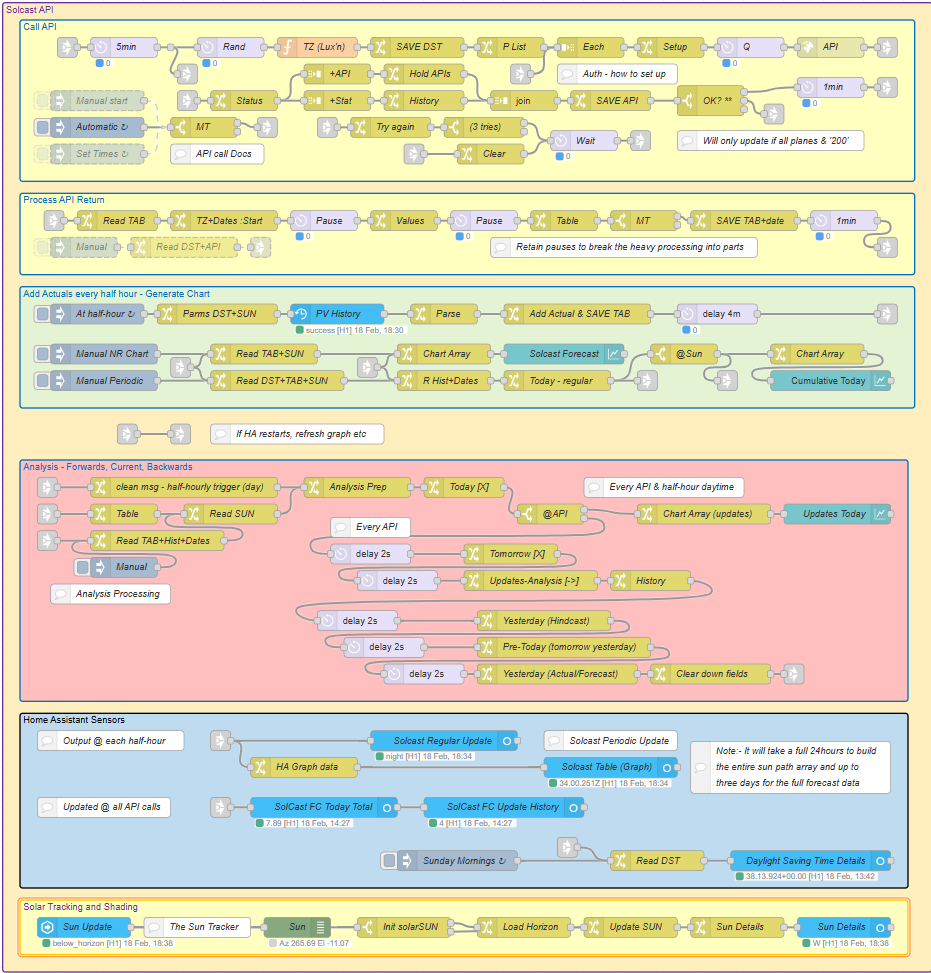
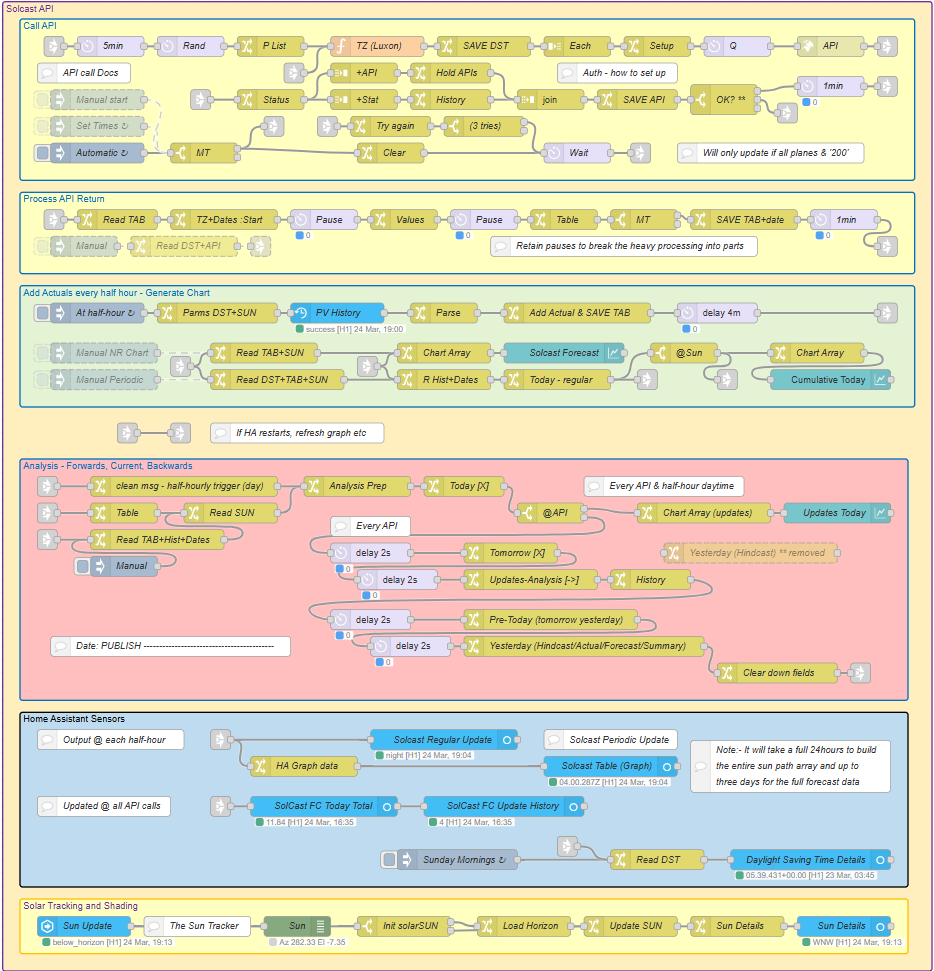
Improve analysis, bugs and documentation
Improve yesterday analysis
Address bugs
Update documentation

diff --git a/README.md b/README.md
@@ -28,13 +28,13 @@ A **Node-RED** flow to read, analyze and save into context **Solcast Solar API f
 
 - Make sure you have **Node-RED working**.
 - Obtain a **Hobbyist account with Solcast**, configure your one or two planes, and obtain the **plane resource codes and account API key**.
-- **Download the release .json file and import** this directly into Node-RED.
+- **Download the latest release .json file and import** this directly into Node-RED.
 - Change the settings:
   - **Configure the plane [P List node] and authorisation [API node] codes into the flow**.
   - Make sure you have your **timezone set** in either Node-RED as a Home Assistant add-on, or in the flow environment variable 'TZ'.  
   - Optionally, if you have a file-based context store, modify the context settings to use file rather than memory. See [can I save context over a restart](#questions-you-might-want-to-ask).
   - Optionally add your horizon settings for the shading calculator [Load Horizon] and set your plane(s) for the sun-path graph [Update SUN].  
-- If you are using Home Assistant, **edit the sensors and sensor configuration nodes to enable them and set them with your home assistant server**. Also **configure the solar-power sensor** for solar PV history and enable both current state and events state nodes.
+- If you are using *Home Assistant*, **edit the sensors and sensor configuration nodes to enable them and set them with your home assistant server**. Also **configure the solar-power sensor** for solar PV history and enable both current state and events state nodes. You will also need to have both the utc date-time and iso date-time entity sensors available: [HA time-date integration](https://www.home-assistant.io/integrations/time_date/)
 - If you are going to use the Node-RED graphs, the graph nodes will need to be enabled and the dashboard settings checked.
 - Fire at least **one API forecast call manually to create and populate all the context variables**, and then configure the triggers for either your *fixed* or *automatic* times.
 
@@ -295,9 +295,16 @@ The sun path tracker provides details of the current sun path and shading, which
 
 </details>
 
+<details>
+<summary> Home Assistant Time sensors (UTC & ISO) for the sun-path flow </summary>
+
+The main flow computes both UTC and local time using the Luxon library. The solar tracking flow operates independently (with a view to possible re-use). Getting local time using JSONata can be done, but an assured approach is to access the time sensors in Home Assistant. Optional time sensors can be added for dates and times, and this flow uses the sensor.date_time_utc and sensor.date_time_iso entities. For correct operation, these need to be added. This can be done easily using the DateTime integration.
+
+</details>
+
 ## Using this Node-RED flow
 
-The flow should run without issue. Solcast does have occasional maintenance outage periods (during Europe night). The flow here has no error checking or recovery - if the API calls fail then the call will be repeated only at the next scheduled trigger point. Rate-limiting errors (429) will be re-attempted [please note that this code feature has not yet been tested in a live situation as at February 2025].
+The flow should run without issue. Solcast does have occasional maintenance outage periods (during Europe night). The flow here has no error checking or recovery - if the API calls fail then the call will be repeated only at the next scheduled trigger point. Rate-limiting errors (response 429) will be re-attempted [please note that this code feature has been tested and debugged, but not yet fully tested in a live situation as at March 2025].
 
 ### Questions you might want to ask
 
@@ -324,7 +331,7 @@ For the fixed time schedule, set your times in the JSON object in the inject nod
 }
 ```
 
-The automatic schedule [experimental at this state] will attempt to spread the API forecast calls out over the solar day. Again, history can be `""` to turn off.`First_by`will issue one forecast to complete prior to the time given, so if you require a forecast for today before utility energy off-peak period at 02:00, then set this as shown. First-by 00:00 will not work (use 00:30), and if the first-by call falls on or after a time during the solar day, it will not be used. The`plane_count`and`call_limit`figures are used to account for the number of API calls required for the optional history and possible first-by, and then the remaining calls are calculated across the solar day, starting at sunrise. An integer gap of at least one hour is applied, and any calls falling at or after sunset are ignored. If history and forecast are requested at the same time, then two or four API calls will be made for both (forecast and estimates) and should execute correctly.
+The automatic schedule [experimental at this stage] will attempt to spread the API forecast calls out over the solar day. Again, history can be `""` to turn off.`First_by`will issue one forecast to complete prior to the time given, so if you require a forecast for today before utility energy off-peak period at 02:00, then set this as shown. First-by 00:00 will not work (use 00:30), and if the first-by call falls on or after a time during the solar day, it will not be used. The`plane_count`and`call_limit`figures are used to account for the number of API calls required for the optional history and possible first-by, and then the remaining calls are calculated across the solar day, starting at sunrise. An integer gap of at least one hour is applied, and any calls falling at or after sunset are ignored. If history and forecast are requested at the same time, then two or four API calls will be made for both (forecast and estimates) and should execute correctly.
 
 ```javascript
 {"history": "03:00",
@@ -335,7 +342,7 @@ The automatic schedule [experimental at this state] will attempt to spread the A
 }
 ```
 
-It is necessary for at least one API call to be triggered manually first to generate the DST context variable (used by both fixed and automatic) and for the Home Assistant sensor.sun to update and provide the sunrise and sunset times for the automatic timer [thus this will not work if you are not connected to Home Assistant]. The times are floored to half-hours, and the starting point for automatic times will be sunrise. This start point can be shifted by the`start_shift`parameter, set between `-8` and `8` which moves the start by four hours earlier or later than sunrise. Then end of the time range will always remain at sunset, and therefore the last API call will be the 'spacing gap' time *before* sunset.
+It is necessary for at least one API call to be triggered manually first to generate the DST context variable (used by both fixed and automatic) and for the Home Assistant sun.sun sensor to update and provide the sunrise and sunset times for the automatic timer [thus this will not work if you are not connected to Home Assistant]. The times are floored to half-hours, and the starting point for automatic times will be sunrise. This start point can be shifted by the`start_shift`parameter, set between `-8` and `8` which moves the start by four hours earlier or later than sunrise. Then end of the time range will always remain at sunset, and therefore the last API call will be the 'spacing gap' time *before* sunset.
 
 </details>
 
@@ -739,6 +746,23 @@ Again it should be clearly noted that since the forecasts only affect the period
 
 </details>
 
+<details>
+<summary> Summary Analysis (fc_summary) </summary>
+
+This analysis brings together *from yesterday* the *actual* solar energy recorded together with the day-ahead *forecast* and the day-after *hindcast*, and provides a full set of forecast performance ratio values.
+
+![Summary Analysis for yesterday](images/Summary-Analysis.png)
+
+Since the forecast changes throughout the day, this analysis provides the average of all available forecasts of the day, and also provides the average shaded forecast. The very first (shaded) forecast is also given. The hindcast will only be available if one has been called for.
+
+The shaded-forecast to average-forecast ratio ('shade_ratio') indicates the *practical impact* that shading has had on the figures. A value of 95% indicates that shading removed 5% of the average median-forecast value. The shade_ratio is used to provide an estimated shaded-hindcast value.
+
+The 'FCHC_ratio' is the forecast (average from yesterday) to the hindcast, and is an indicator of the accuracy of the Solcast forecast itself. A value of 115% indicates that Solcast over-estimated the forecast by 15% (assuming that the post-event hindcast is in itself entirely accurate). Note that since the 'forecast' for analysis is the average of all forecasts from the day, the individual forecast accuracy will change as the day progresses.
+
+The remaining actual ratios (actual to forecast, actual to average shaded forecast, actual to first shaded, actual to hindcast, and actual to shaded hindcast) provide insight to the performance of the real-world forecast. In the example shown above, for practical use on the day in question, the 'shaded forecast' will be the latest available figure for use. Hence the in-day accuracy for yesterday turned out to be 94%, that is, the recorded actual solar PV generated was 94% of the shade-modified Solcast Forecast. For computation, the forecast value used is the *average*, and it may be more appropriate to use the very *first* (of possibly several) forecasts. The actual to first-shaded-forecast ratio, here 83%, indicating that the Solar PV recorded was 83% of the first obtained shaded forecast of the day. This provides a wealth of information that can be used for in-depth analysis of the Solcast forecast accuracy against other factors such as season and local weather.
+
+</details>
+
 ## Home Assistant Sensors
 
 Several Home Assistant sensors are provided for passing *state* and *attribute* values to Home Assistant. These are updated at various times, and are *examples* of the data that can be passed to Home Assistant. Although entirely useable 'as is', there is great flexibility for changing sensor values to suit particular requirements.
@@ -820,6 +844,22 @@ Attribute fields hold:
 - the remaining forecast energy (sum of forward periods not including this one)
 - solar-cumulative-percent value, as the ratio of current total actual solar energy to sum of all forecasts to this point: 85 means that actual solar energy so far is 85 percent of the forecasted value to this point in time
 - solar-day-percent value, as the ratio of current total actual solar energy to the entire day forecast
+- the forecast data *array*, of all periods with a non-zero forecast value, with each array half-hour period *item* being
+  - the start time as string "hh:mm" in local time
+  - the equivalent Unix millisecond
+  - forecast power values for low, shaded, median, high figures
+  - the actual energy (power equivalent) recorded for the period, if period ends before 'now'
+  - ratio of the actual solar to shaded forecast for the period as integer percentage
+  - 'upfc' and 'upact' Boolean flags, if a forecast update and if actual values have been recorded for this period
+  - 'isshaded' Boolean flag if this period is within the shading period array
+  - cumulative values for low, shaded, median and high forecasts, and for actual solar, as the summation of all periods upto and including this one
+  - 'cum_ratio' being the ratio between cumulative actual and cumulative shaded forecast to this point
+  - 'position', which is a string value indicating the current cumulative performance as one of:
+    - 'Low' - below Solcast low forecast figure
+    - 'Below' - between low and (low+shaded)/2
+    - 'Target' - between (low+shaded)/2 and (shaded+high)/2
+    - 'Above' - between (shaded+high)/2 and high
+    - 'High' - above Solcast high forecast figure
 
 </details>
 
